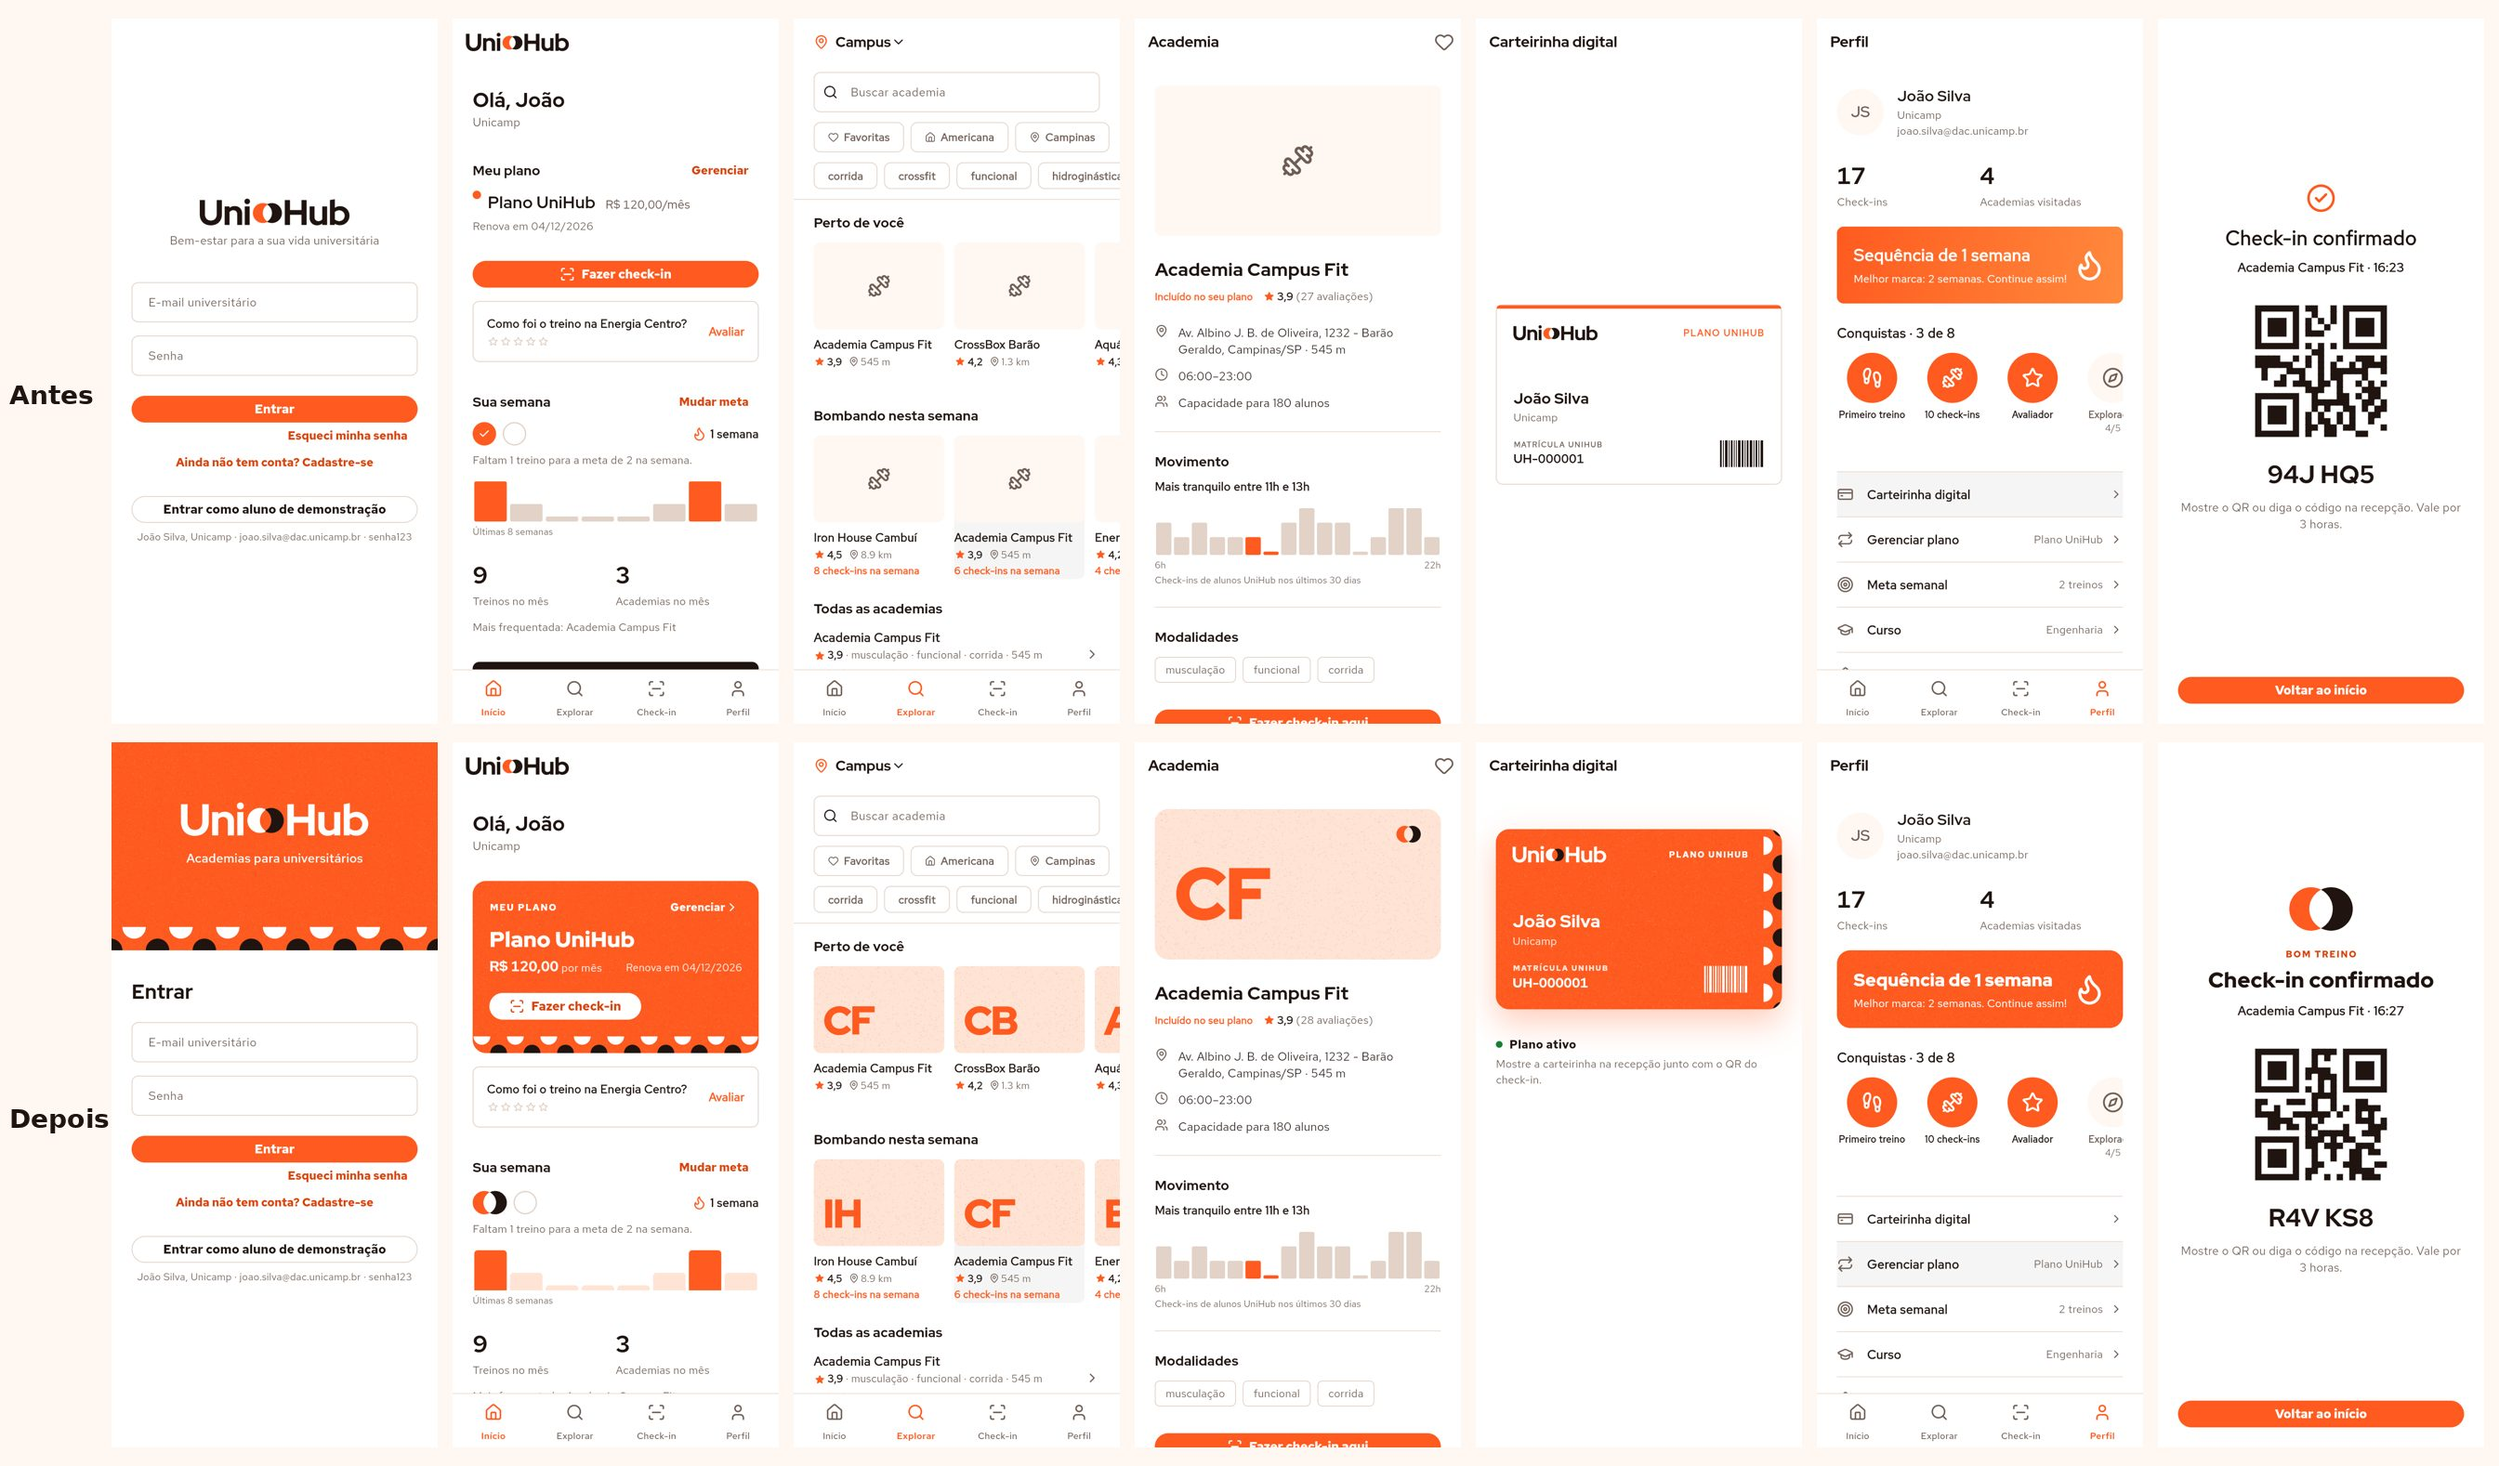
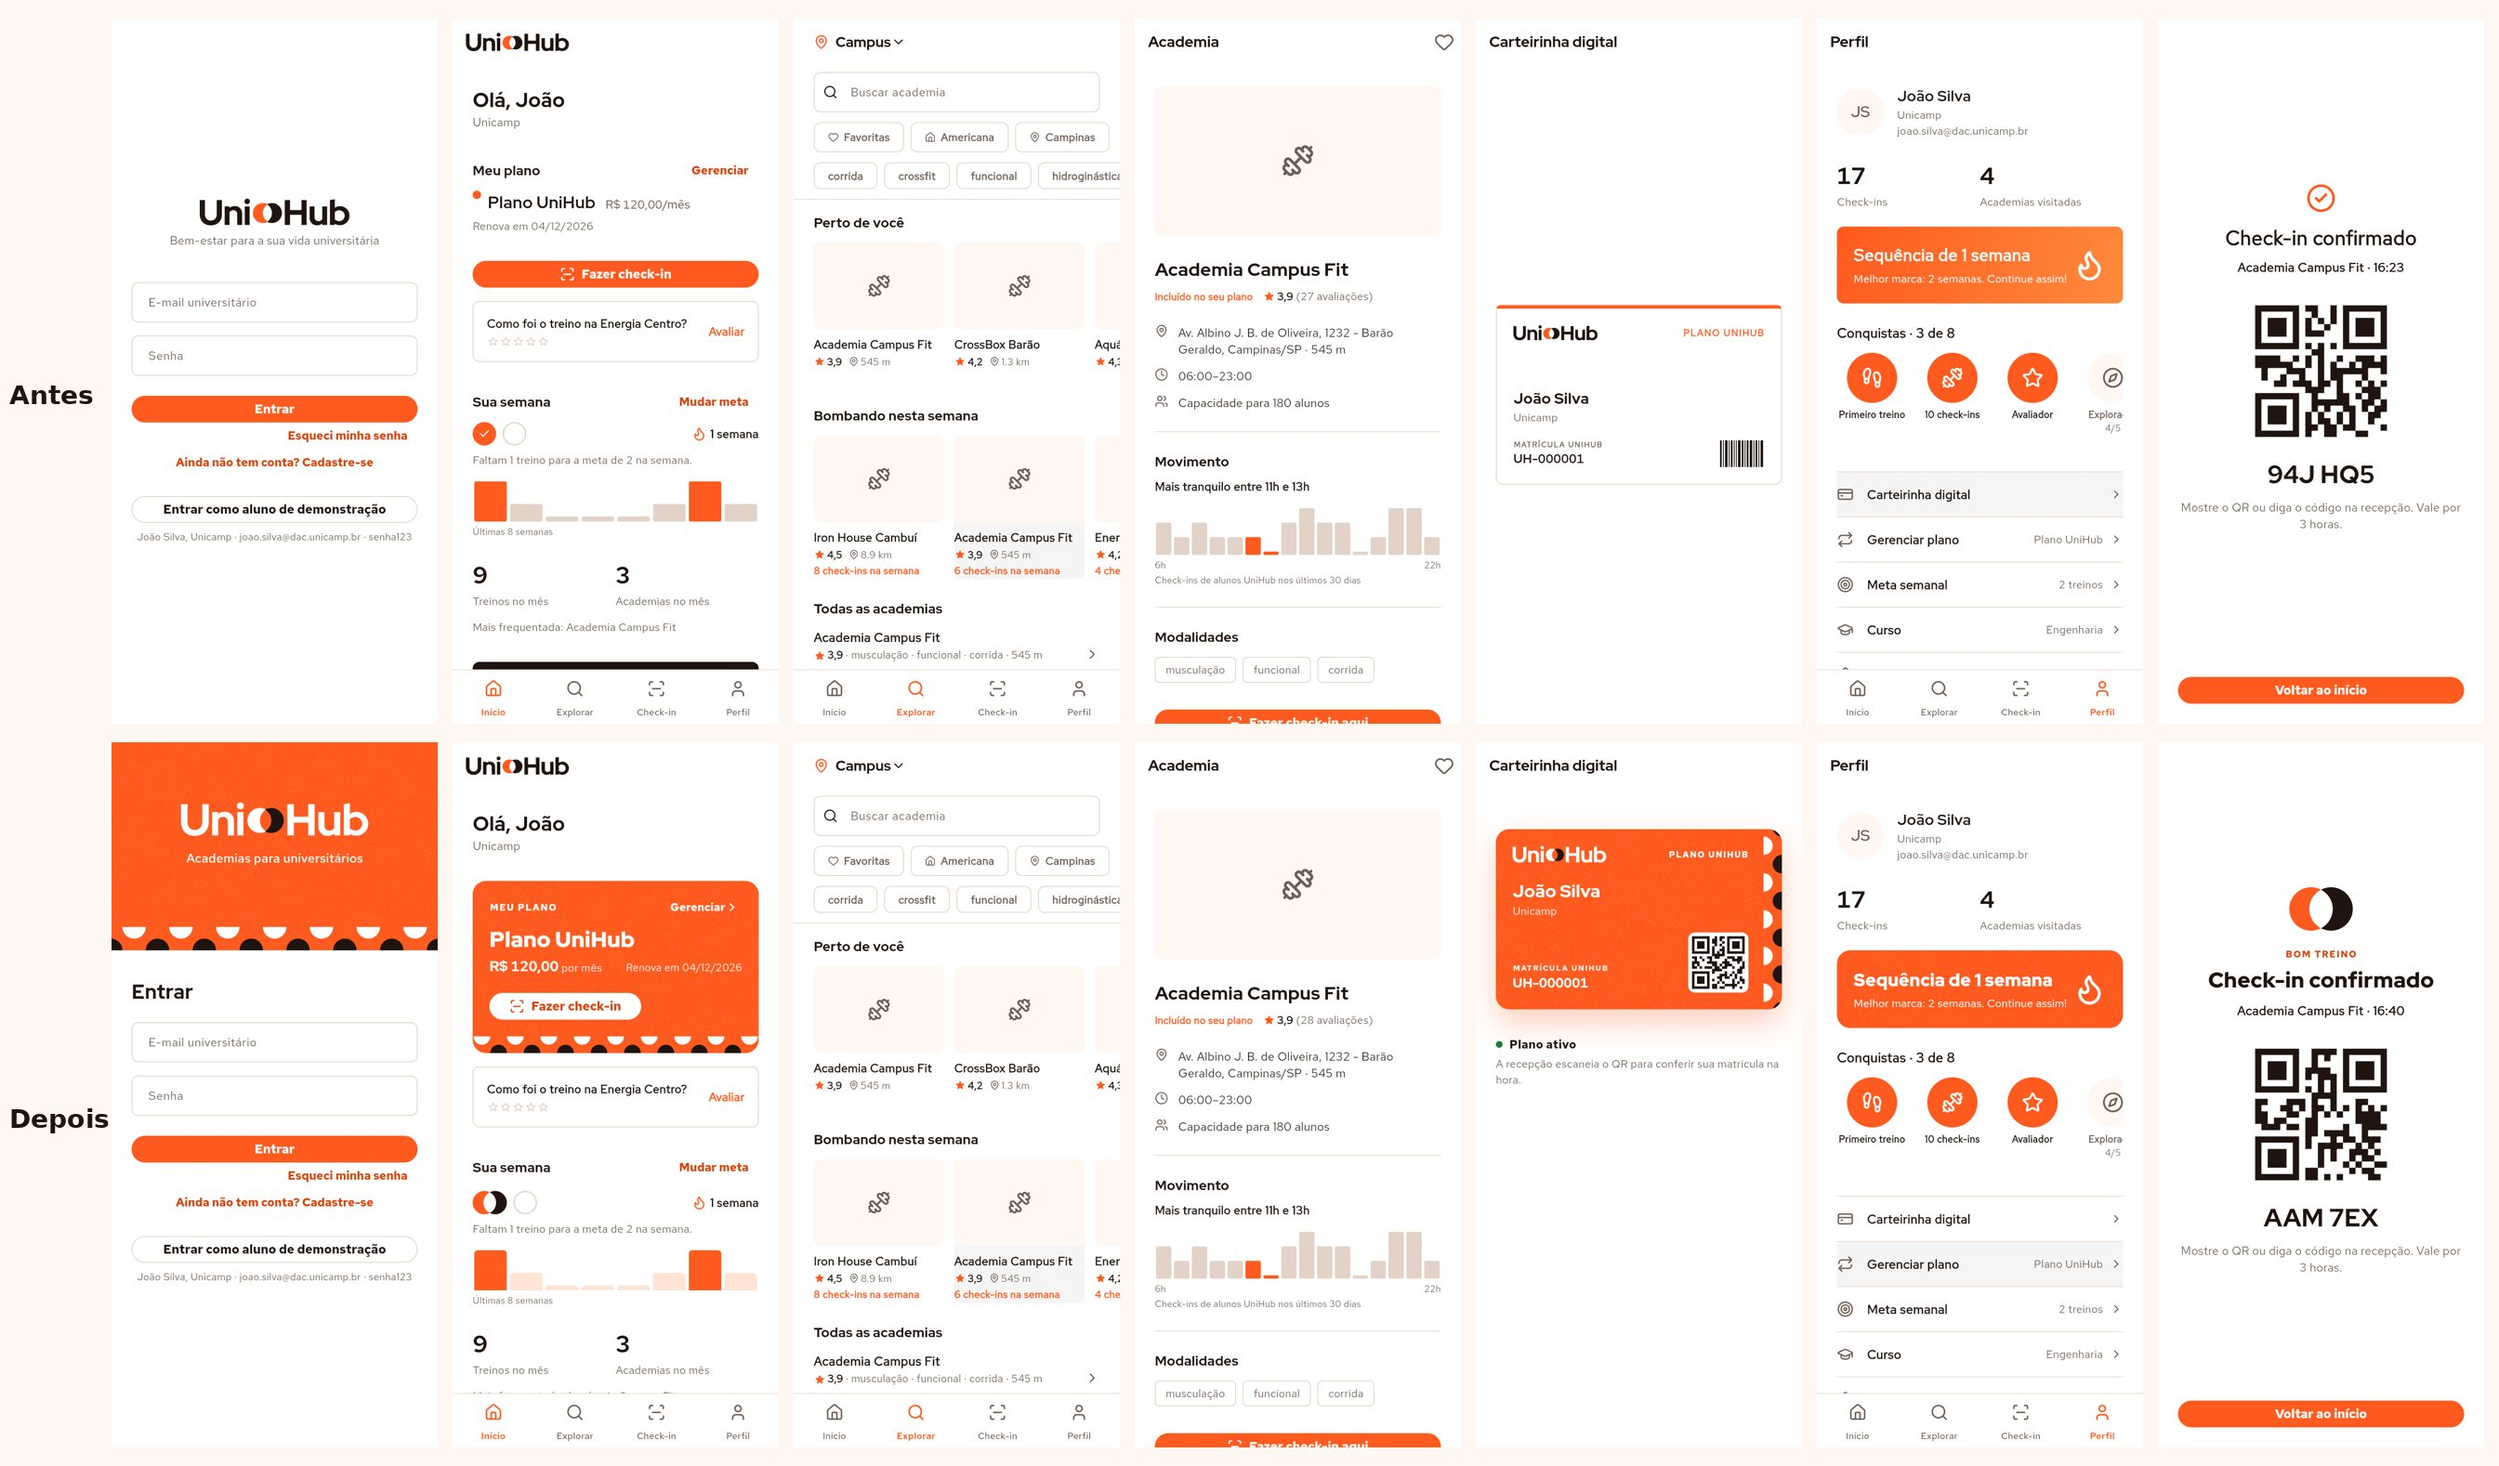
Carteirinha com QR da matrícula e academias sem foto com o fundo simples
QR no lugar do código de barras decorativo, para a recepção escanear na
hora. A capa com iniciais saiu: as academias vão ter fotos.

Claude-Session: https://claude.ai/code/session_0169GksVRYBSJT4FtSaQGDzK

diff --git a/mobile/lib/presentation/widgets/common.dart b/mobile/lib/presentation/widgets/common.dart
@@ -236,11 +236,11 @@ class GymCard extends StatelessWidget {
                 height: 104,
                 width: 156,
                 child: gym.photoUrl == null
-                    ? GymCover(name: gym.name)
+                    ? const _PhotoPlaceholder()
                     : Image.network(
                         gym.photoUrl!,
                         fit: BoxFit.cover,
-                        errorBuilder: (_, _, _) => GymCover(name: gym.name),
+                        errorBuilder: (_, _, _) => const _PhotoPlaceholder(),
                       ),
               ),
             ),
@@ -283,54 +283,16 @@ class GymCard extends StatelessWidget {
   }
 }
 
-/// Capa da academia enquanto ela não tem foto: laranja claro com textura de
-/// papel e as iniciais em Red Hat Display, no lugar do ícone genérico.
-class GymCover extends StatelessWidget {
-  const GymCover({super.key, required this.name, this.large = false});
-
-  final String name;
-  final bool large;
-
-  String get _initials {
-    const skip = {'academia', 'studio', 'estúdio', 'de', 'da', 'do', 'e'};
-    final words = name
-        .split(RegExp(r'\s+'))
-        .where((w) => w.isNotEmpty && !skip.contains(w.toLowerCase()))
-        .toList();
-    if (words.isEmpty) return name.isEmpty ? '' : name[0].toUpperCase();
-    return words.take(2).map((w) => w[0].toUpperCase()).join();
-  }
+class _PhotoPlaceholder extends StatelessWidget {
+  const _PhotoPlaceholder();
 
   @override
-  Widget build(BuildContext context) {
-    return ColoredBox(
-      color: UniHubColors.accentSoft,
-      child: Stack(
-        children: [
-          const Positioned.fill(child: PaperGrain(opacity: 0.08)),
-          Positioned(
-            left: large ? UniHubSpacing.x6 : UniHubSpacing.x3,
-            bottom: large ? UniHubSpacing.x4 : UniHubSpacing.x1,
-            child: Text(
-              _initials,
-              style: UniHubFonts.display(
-                fontSize: large ? 88 : 48,
-                fontWeight: FontWeight.w900,
-                color: UniHubColors.accent,
-                letterSpacing: -2,
-              ),
-            ),
-          ),
-          if (large)
-            const Positioned(
-              right: UniHubSpacing.x6,
-              top: UniHubSpacing.x5,
-              child: UniHubSymbol(height: 20),
-            ),
-        ],
-      ),
-    );
-  }
+  Widget build(BuildContext context) => Container(
+        color: UniHubColors.surface,
+        child: const Center(
+          child: Icon(LucideIcons.dumbbell, size: 28, color: UniHubColors.textSecondary),
+        ),
+      );
 }
 
 /// Carrossel horizontal com título e "Ver tudo" opcional.

diff --git a/mobile/lib/presentation/screens/student_card_screen.dart b/mobile/lib/presentation/screens/student_card_screen.dart
@@ -1,5 +1,6 @@
 import 'package:flutter/material.dart';
 import 'package:flutter_riverpod/flutter_riverpod.dart';
+import 'package:qr_flutter/qr_flutter.dart';
 import 'package:shared_models/shared_models.dart';
 
 import '../providers.dart';
@@ -91,7 +92,7 @@ class StudentCardScreen extends ConsumerWidget {
                                     ),
                                   ],
                                 ),
-                                const _FauxBarcode(),
+                                _CardQr(data: memberId),
                               ],
                             ),
                           ],
@@ -129,7 +130,7 @@ class StudentCardScreen extends ConsumerWidget {
           ),
           const SizedBox(height: UniHubSpacing.x1),
           Text(
-            'Mostre a carteirinha na recepção junto com o QR do check-in.',
+            'A recepção escaneia o QR para conferir sua matrícula na hora.',
             style: UniHubFonts.text(fontSize: 13, color: UniHubColors.textSecondary),
           ),
         ],
@@ -138,23 +139,32 @@ class StudentCardScreen extends ConsumerWidget {
   }
 }
 
-/// Código de barras decorativo (o POC não integra catraca real).
-class _FauxBarcode extends StatelessWidget {
-  const _FauxBarcode();
+/// QR da matrícula num quadrado branco, para a recepção escanear na hora
+/// (módulos escuros sobre branco: leitores não leem QR invertido).
+class _CardQr extends StatelessWidget {
+  const _CardQr({required this.data});
+
+  final String data;
 
   @override
   Widget build(BuildContext context) {
-    const widths = [2.0, 1.0, 3.0, 1.0, 2.0, 1.0, 1.0, 3.0, 2.0, 1.0, 2.0, 3.0, 1.0, 2.0, 1.0, 3.0];
-    return Row(
-      children: [
-        for (final w in widths)
-          Container(
-            width: w,
-            height: 32,
-            margin: const EdgeInsets.only(right: 1.5),
-            color: Colors.white,
-          ),
-      ],
+    return Container(
+      padding: const EdgeInsets.all(5),
+      decoration: BoxDecoration(
+        color: Colors.white,
+        borderRadius: UniHubRadius.brMd,
+      ),
+      child: QrImageView(
+        data: data,
+        size: 62,
+        padding: EdgeInsets.zero,
+        backgroundColor: Colors.white,
+        eyeStyle: const QrEyeStyle(eyeShape: QrEyeShape.square, color: UniHubColors.textPrimary),
+        dataModuleStyle: const QrDataModuleStyle(
+          dataModuleShape: QrDataModuleShape.square,
+          color: UniHubColors.textPrimary,
+        ),
+      ),
     );
   }
 }

diff --git a/mobile/lib/presentation/screens/gym_detail_screen.dart b/mobile/lib/presentation/screens/gym_detail_screen.dart
@@ -51,19 +51,21 @@ class GymDetailScreen extends ConsumerWidget {
           return ListView(
             padding: const EdgeInsets.all(UniHubSpacing.x6),
             children: [
-              ClipRRect(
-                borderRadius: UniHubRadius.brLg,
-                child: SizedBox(
-                  height: 180,
-                  child: gym.photoUrl == null
-                      ? GymCover(name: gym.name, large: true)
-                      : Image.network(
-                          gym.photoUrl!,
-                          fit: BoxFit.cover,
-                          errorBuilder: (_, _, _) => GymCover(name: gym.name, large: true),
-                        ),
+              if (gym.photoUrl != null)
+                ClipRRect(
+                  borderRadius: UniHubRadius.brMd,
+                  child: Image.network(
+                    gym.photoUrl!,
+                    height: 180,
+                    fit: BoxFit.cover,
+                    errorBuilder: (_, _, _) => Container(
+                      height: 180,
+                      color: UniHubColors.surface,
+                      child: const Icon(LucideIcons.dumbbell,
+                          size: 40, color: UniHubColors.textSecondary),
+                    ),
+                  ),
                 ),
-              ),
               const SizedBox(height: UniHubSpacing.x6),
               Text(gym.name, style: UniHubFonts.display(fontSize: 22, fontWeight: FontWeight.w800)),
               const SizedBox(height: UniHubSpacing.x2),
